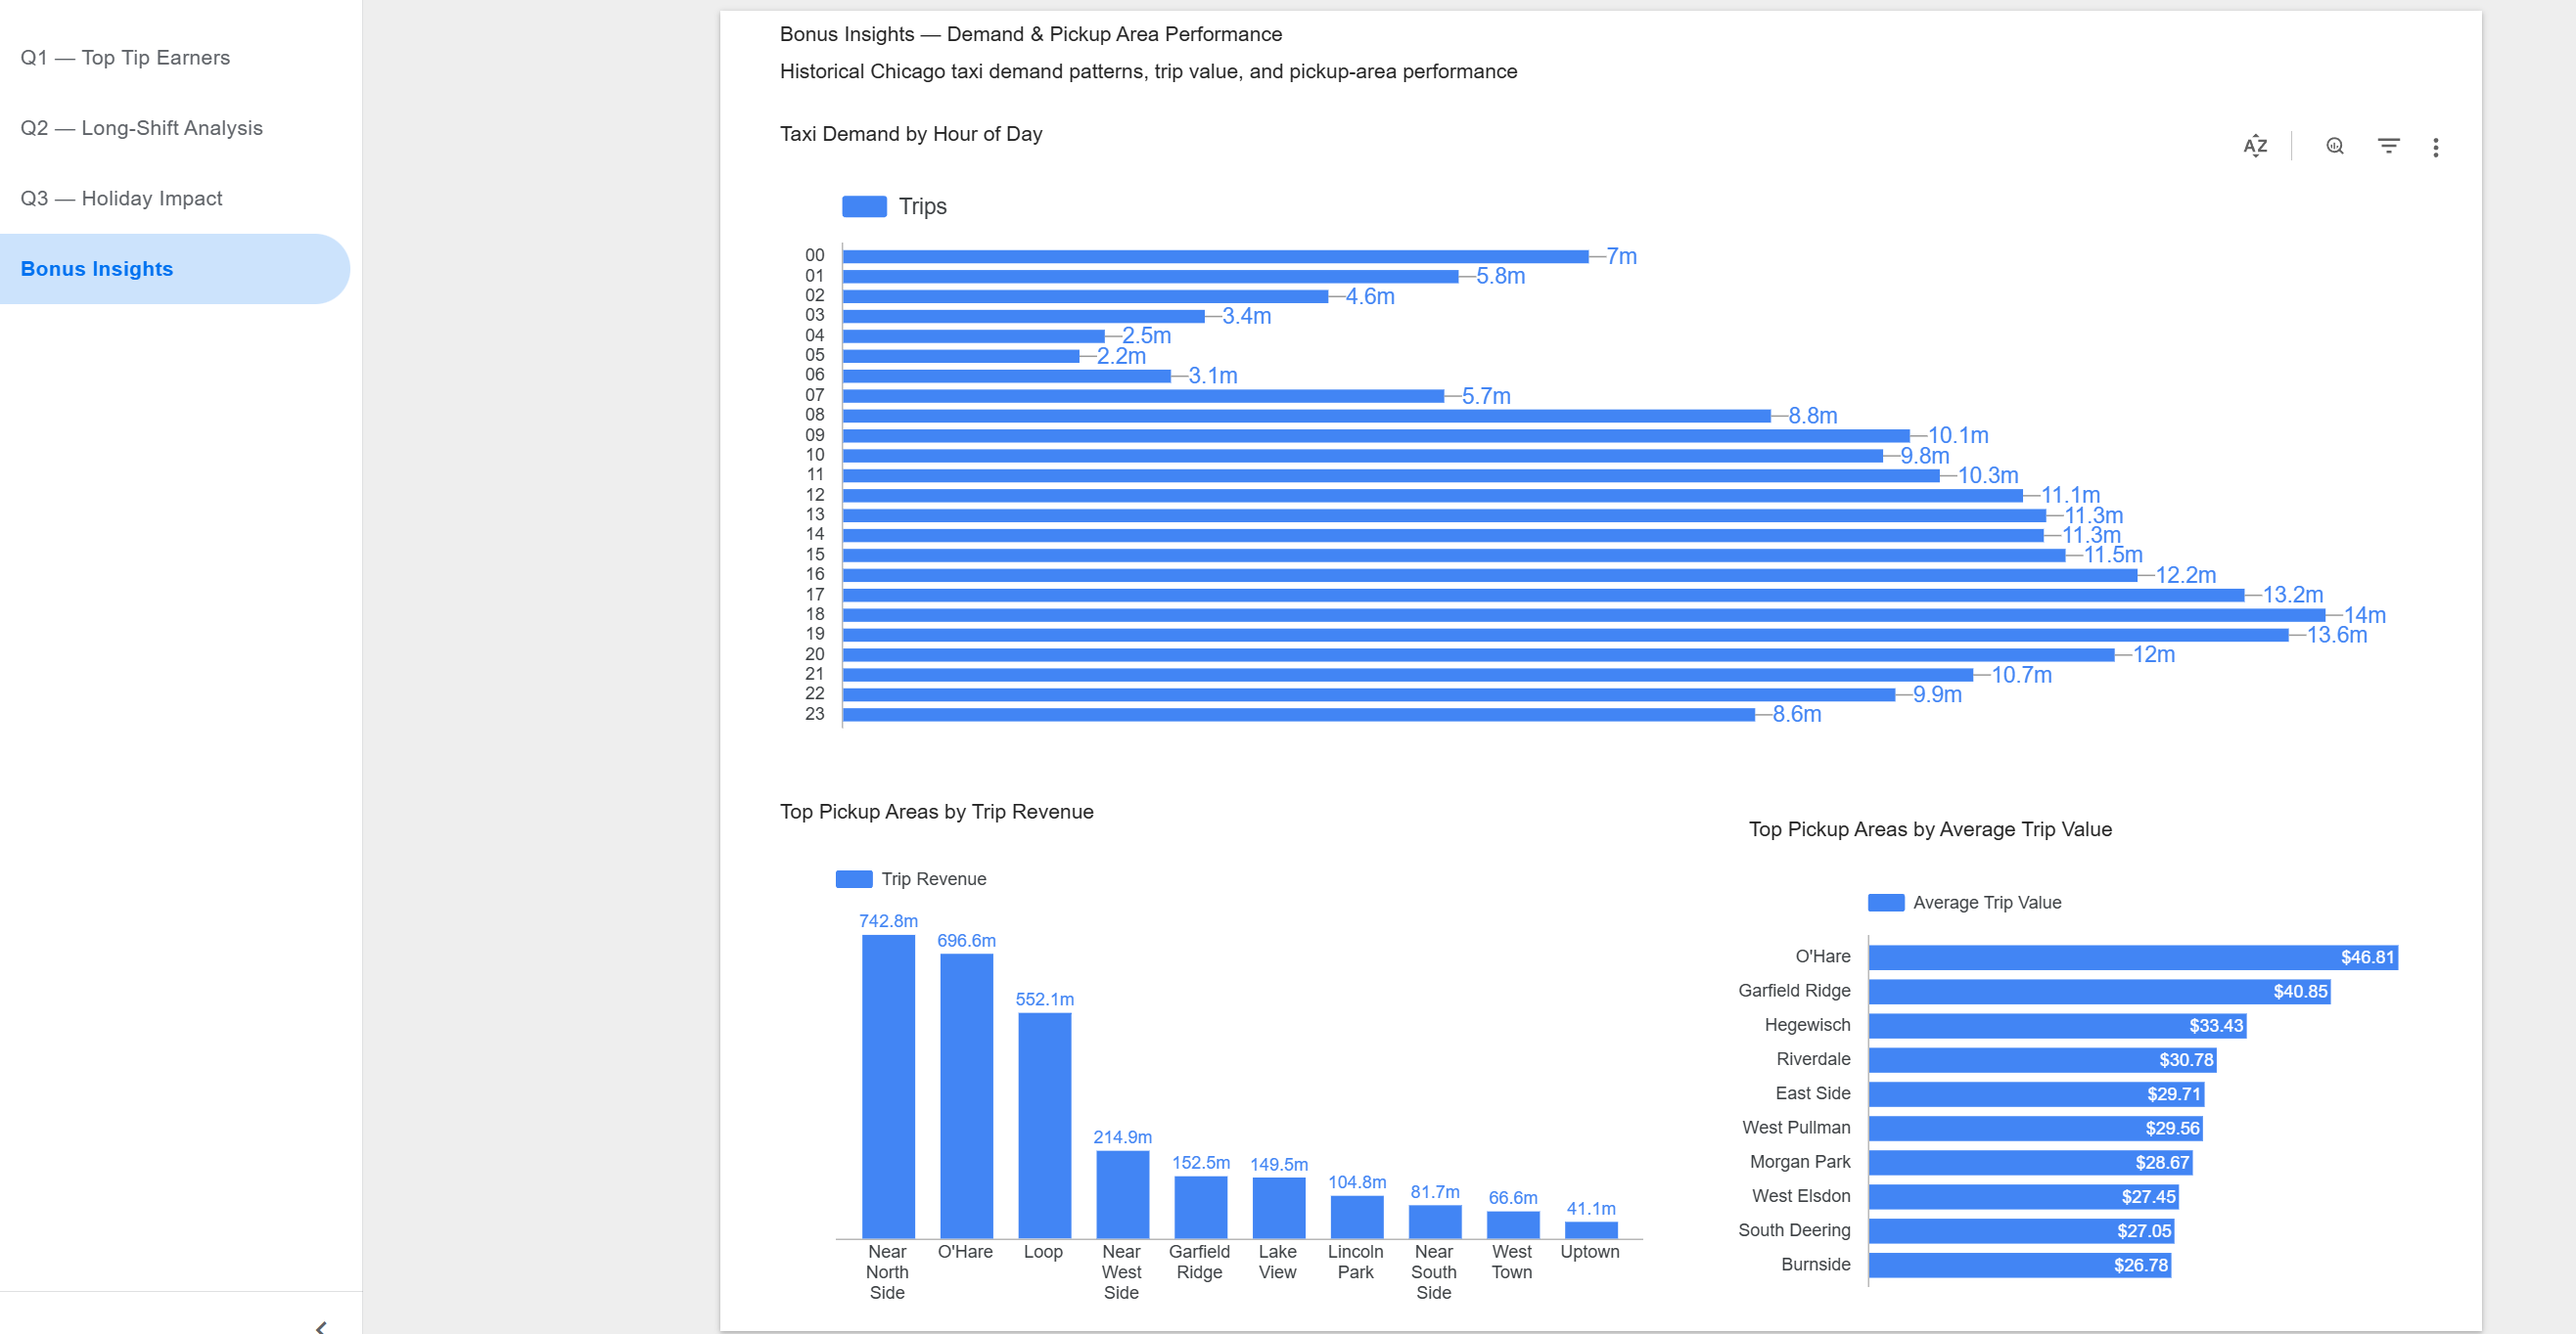
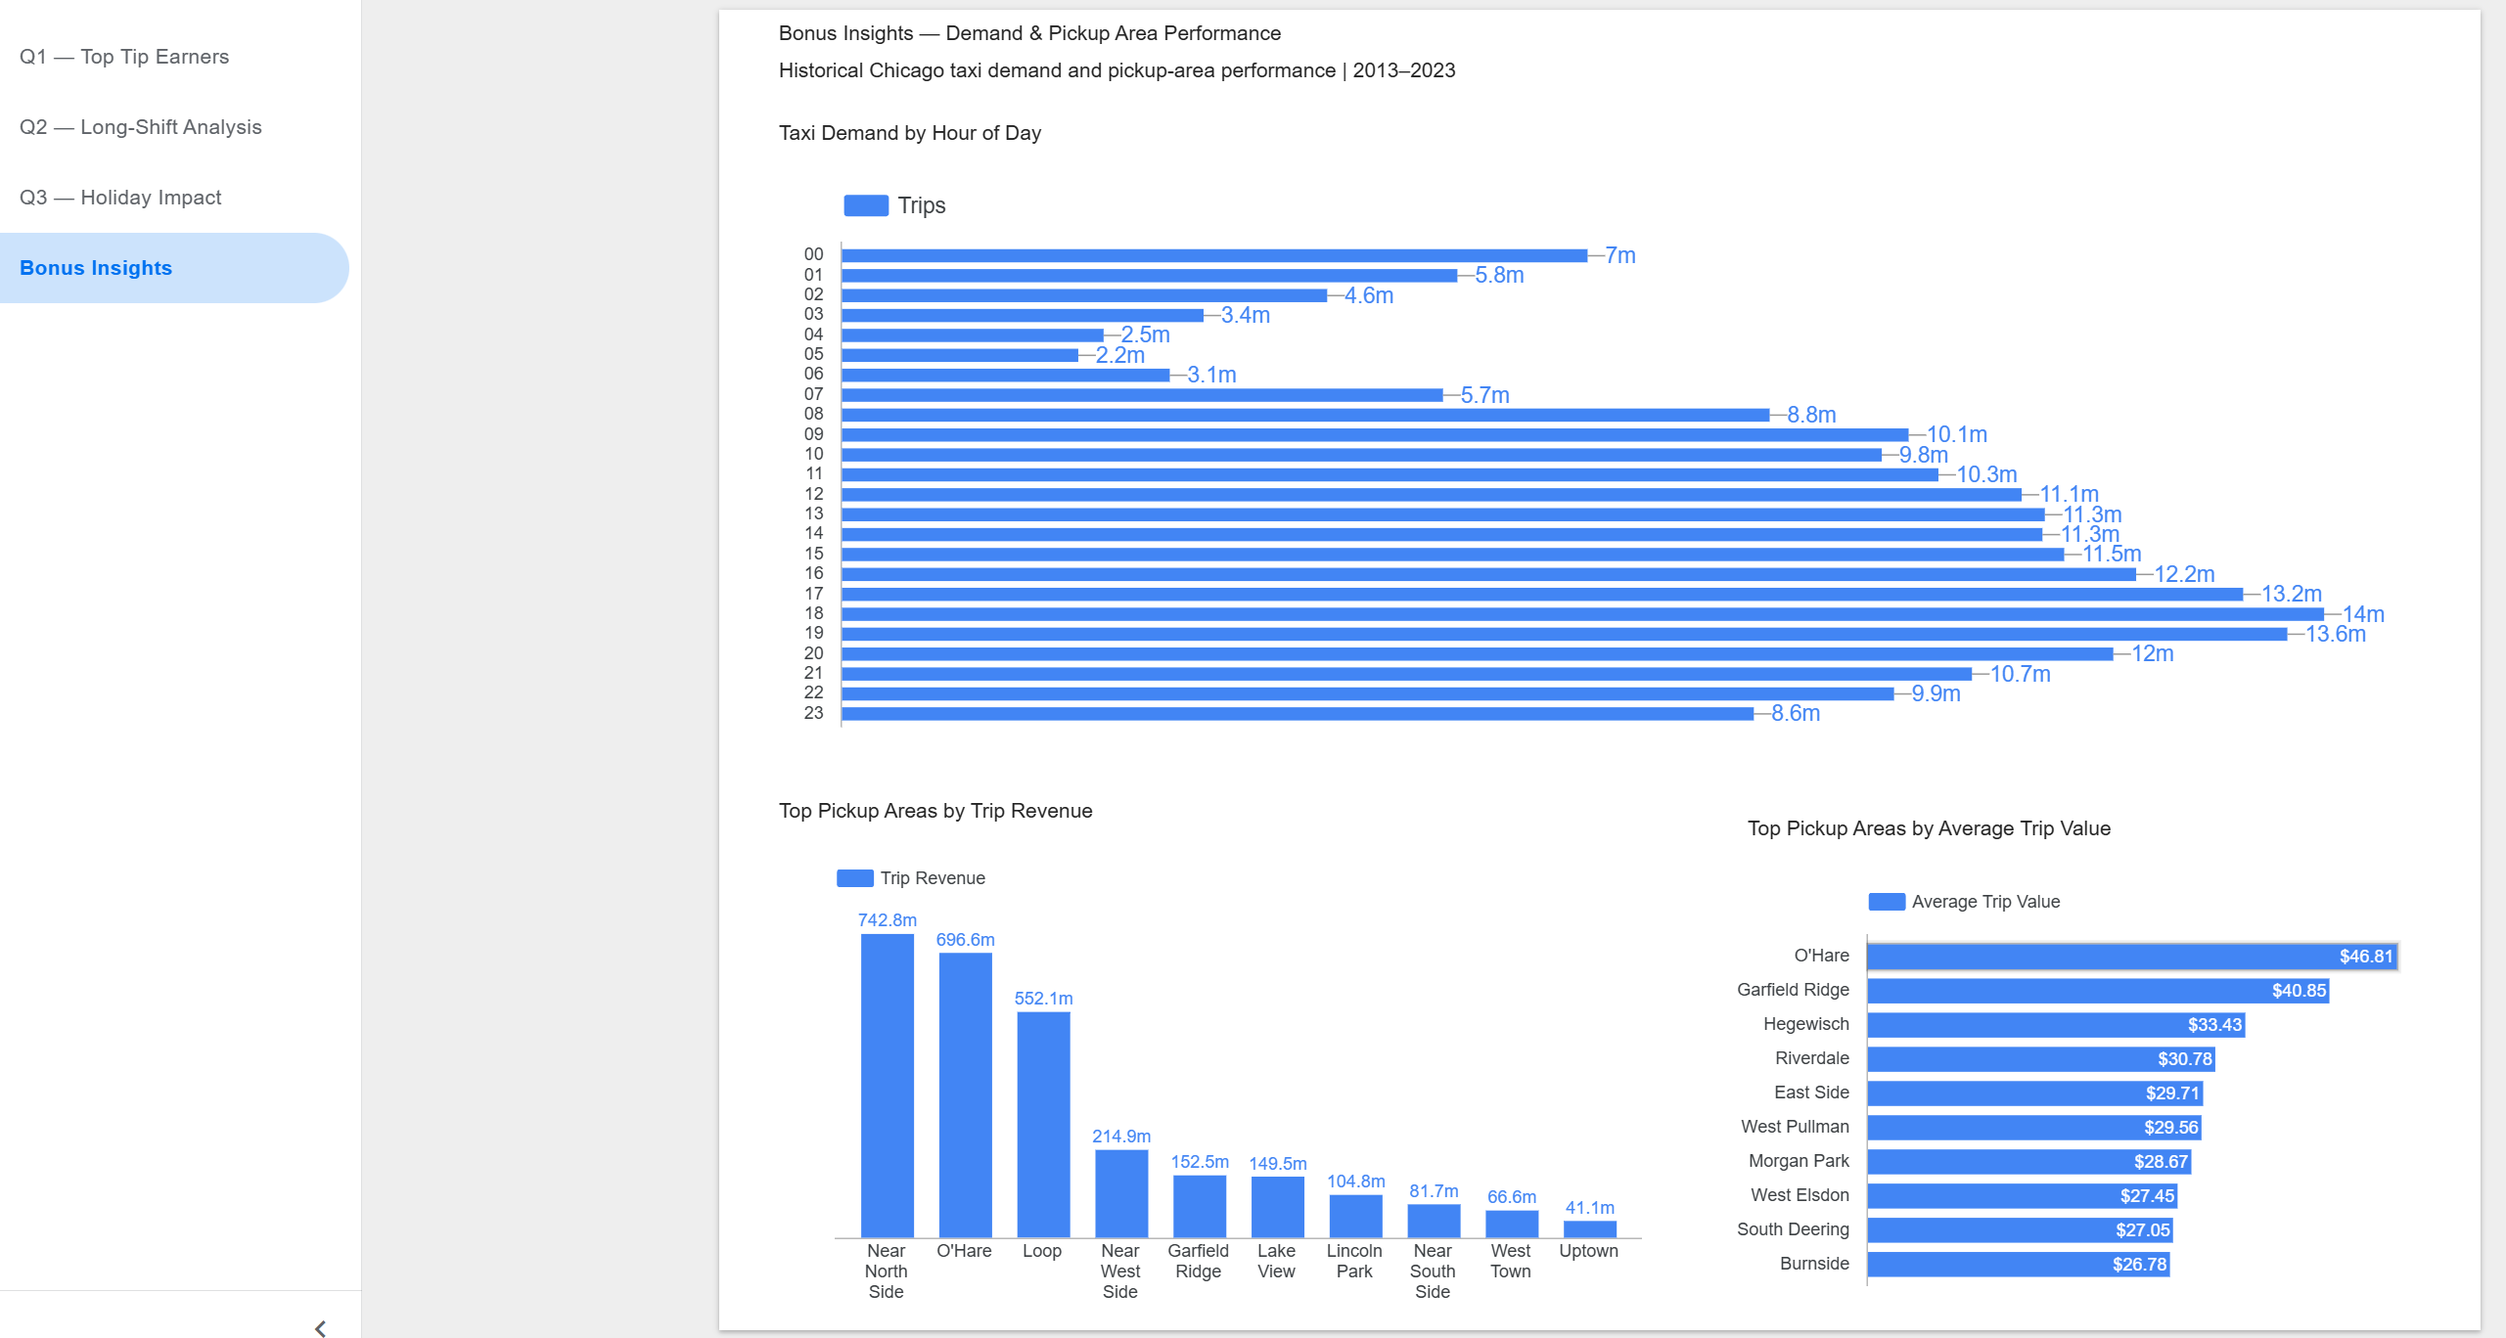
Clarify bonus analysis scope

diff --git a/README.md b/README.md
@@ -744,6 +744,10 @@ Compares historical taxi-trip activity on actual holidays with comparable non-ho
 
 ### Bonus Insights
 
+**Analysis scope:** The bonus insights use all available records in the analytical dataset, covering 1 January 2013 through 31 December 2023.
+
+Because these results aggregate the full historical period, time periods and pickup areas with higher historical trip volumes contribute more heavily to the rankings and averages. The findings therefore describe long-term historical patterns and should not be interpreted as current operating conditions.
+
 ![Bonus Insights — Demand and Pickup Area Performance](docs/images/dashboard_bonus_insights.png)
 
 #### Bonus 1 — Hourly Demand and Trip Value
